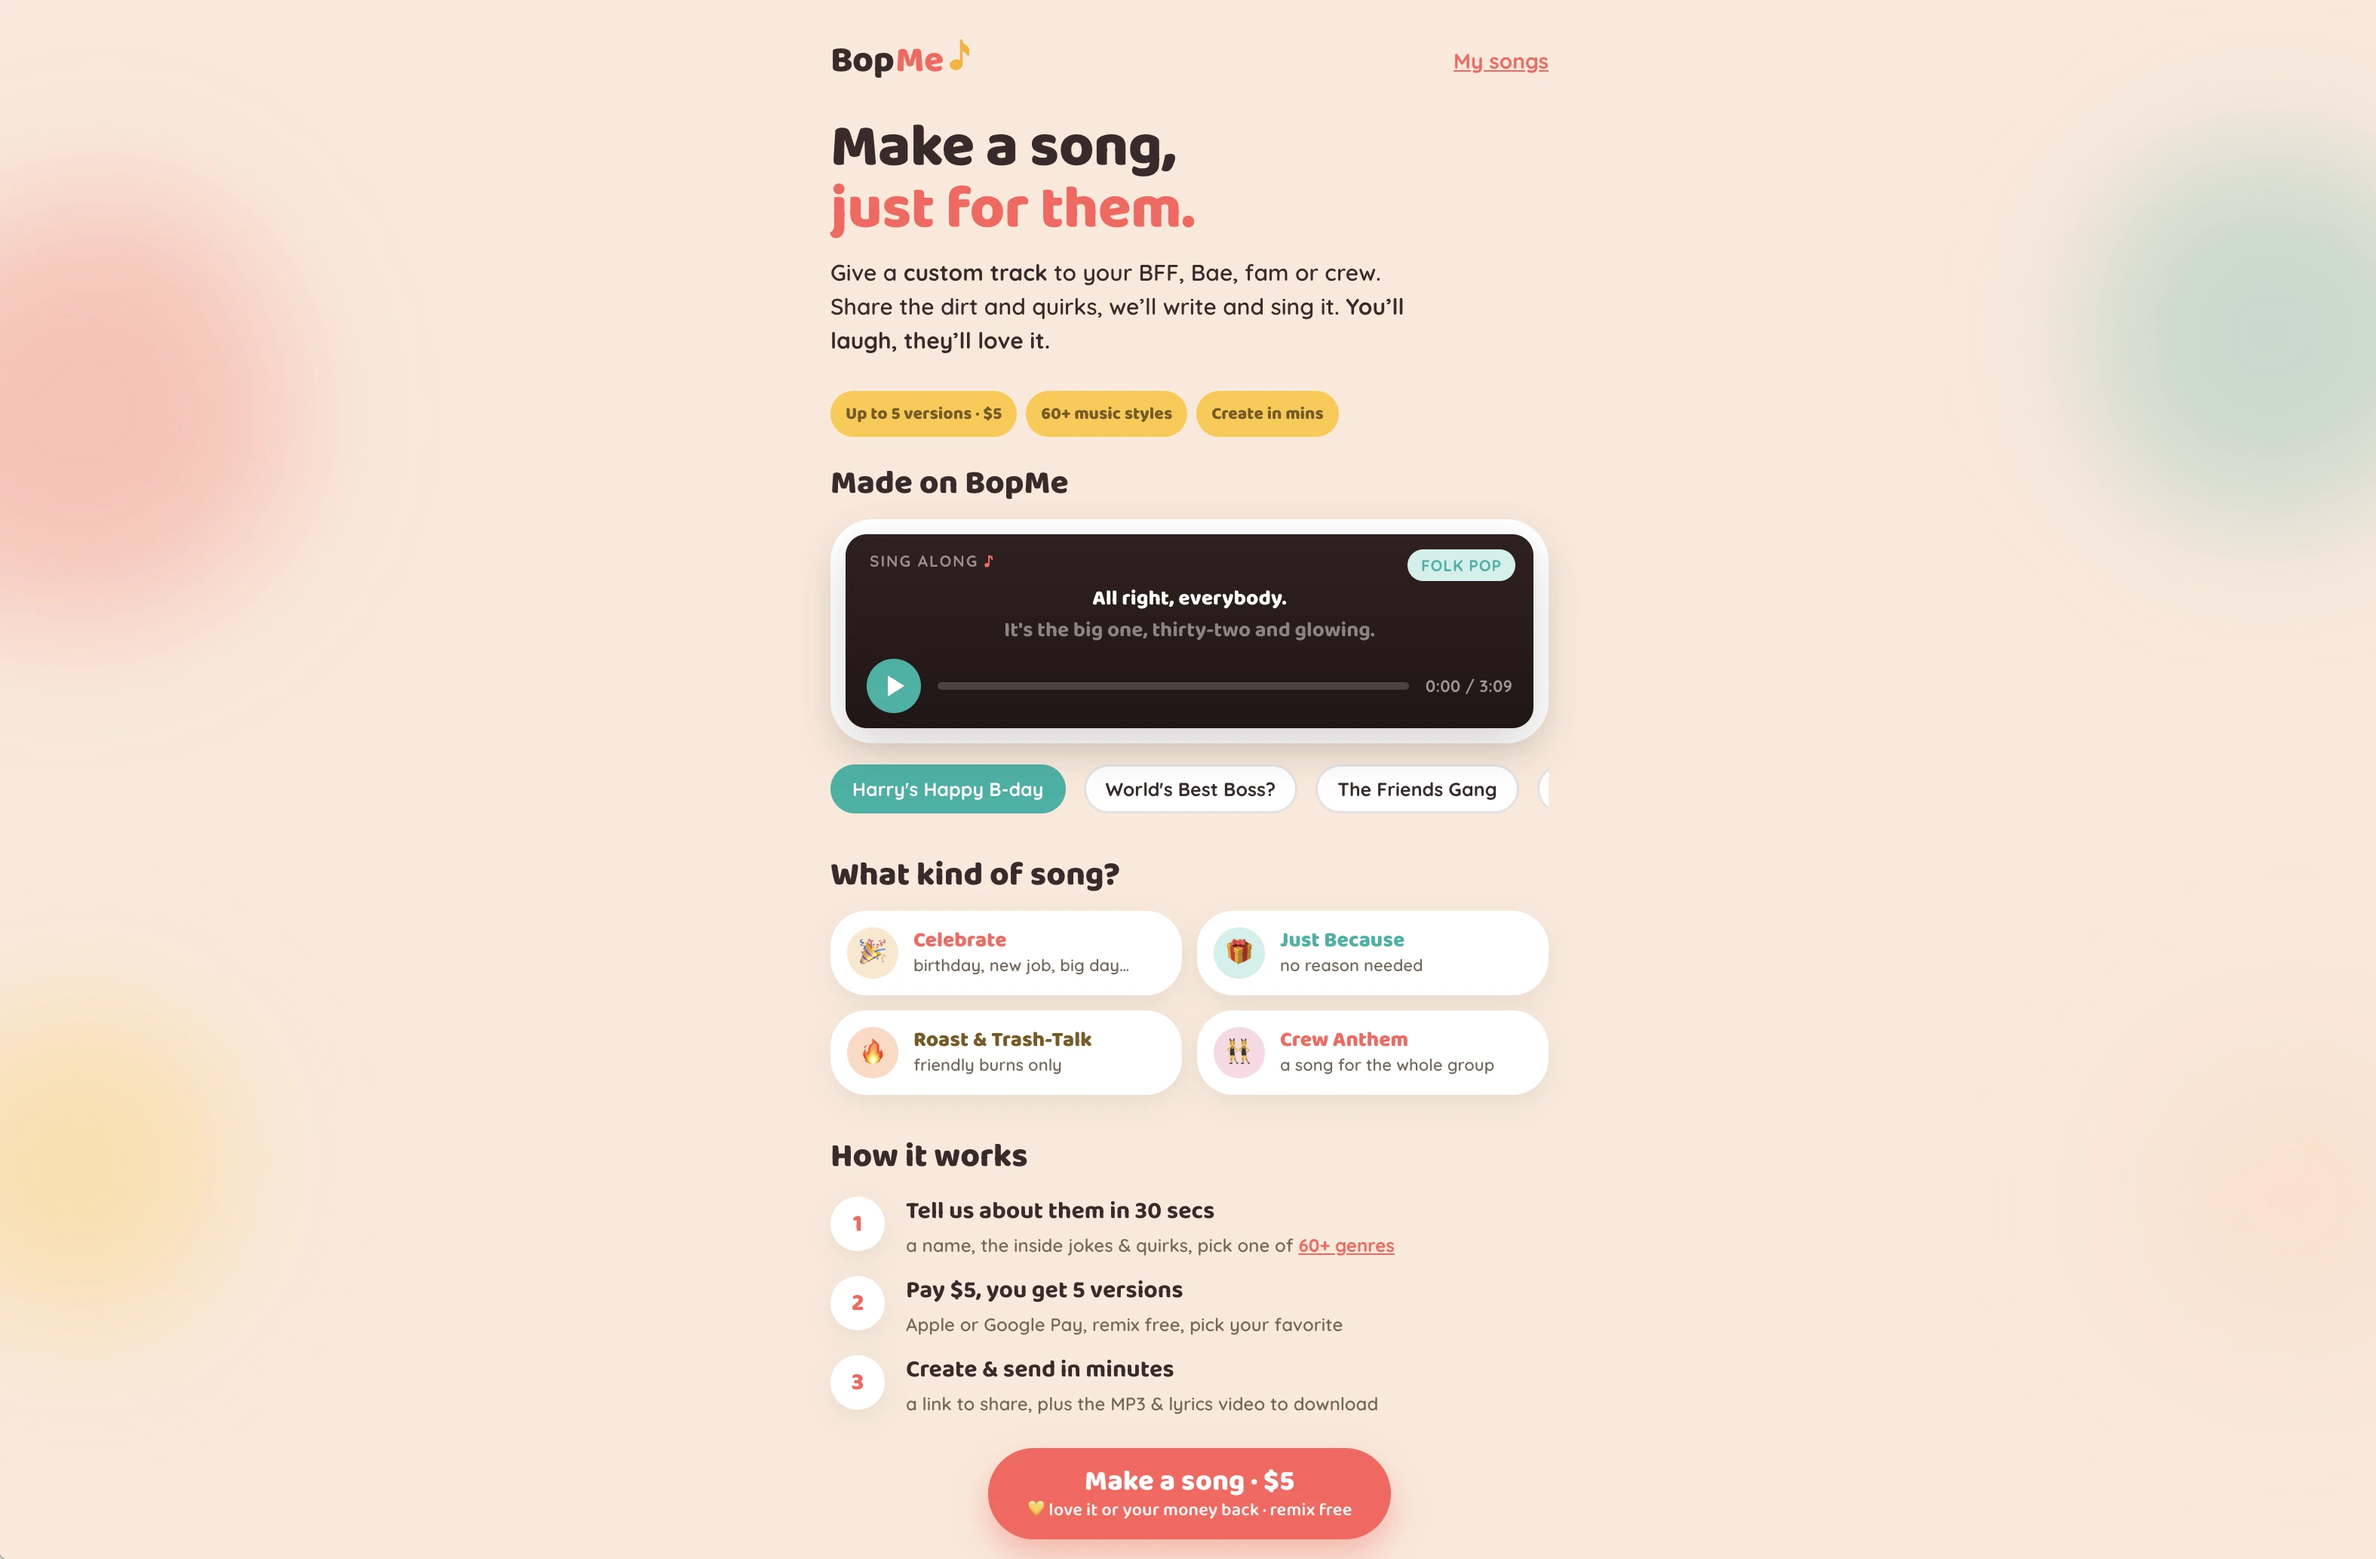
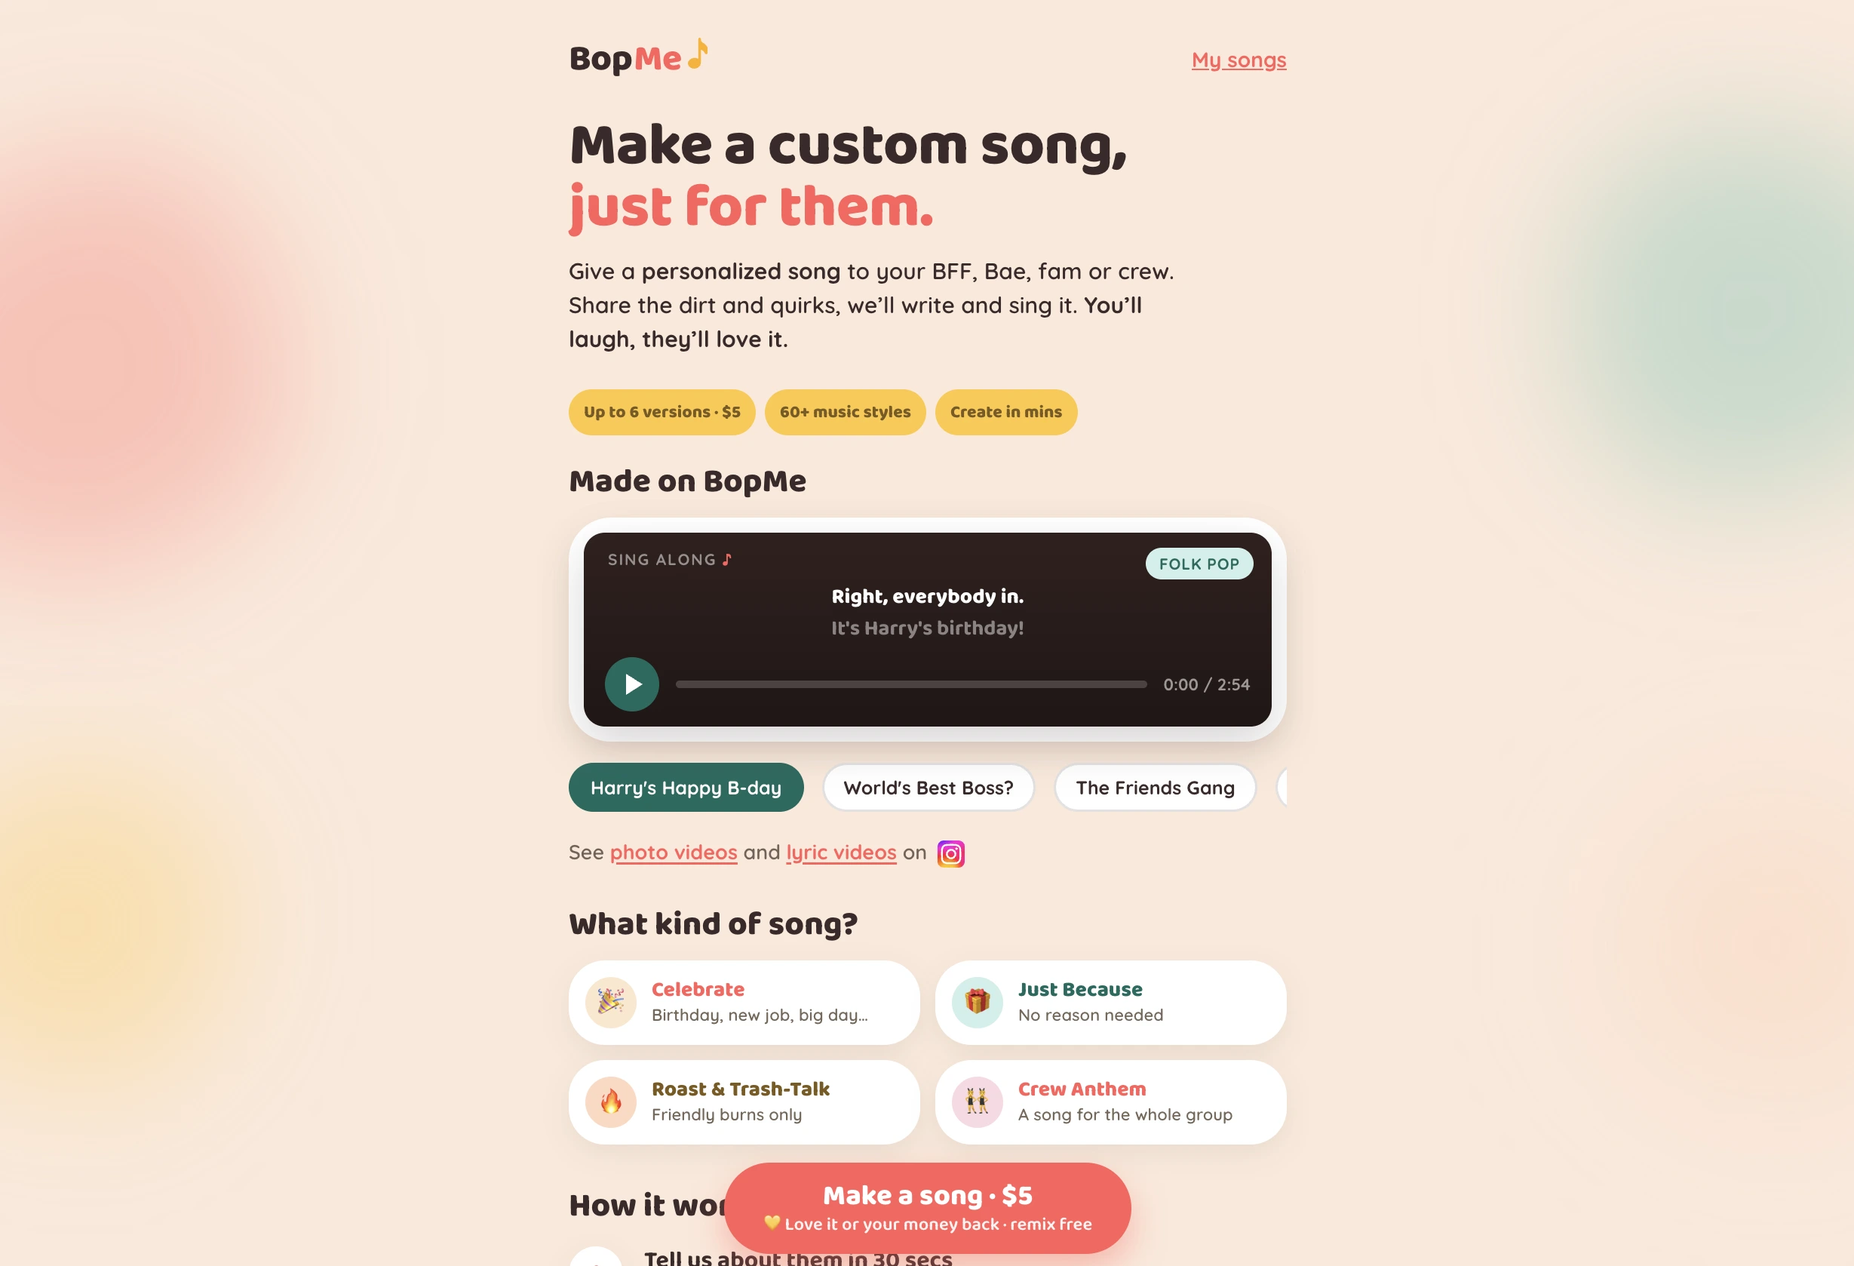
Update BopMe project card: new image, iOS app, revised copy
- Replace the main image with the new BopMe homepage capture, converted to
  WebP at native resolution (2458x1678, q92, 200K)
- Add the App Store badge in the lower right, reusing DashDashBoom's markup
  verbatim so formatting and size match exactly
- Copy: new description, and Platforms now leads with the shipped iOS app

Changed region(s): [[0.3092, 0.031, 0.7111, 1.0], [0.6184, 0.031, 0.6802, 0.062]]

diff --git a/index.html b/index.html
@@ -192,9 +192,14 @@
                 </a>
               </div>
               <p class="text-gray-500 text-sm leading-relaxed">
-                Want to make your friends laugh? Create a studio quality song with personalized lyrics in minutes. Just give us the dirt, pick a genre, and energy level. Anything goes...pop, disco, R&B, yacht rock, country, acoustic & more.
+                Want to make friends laugh? Create a studio quality song &amp; video with personalized lyrics in minutes. Give us the dirt, pick a genre, and energy level. Over 60 music genres to choose from.
               </p>
-              <p class="text-sm text-gray-400 mt-6 font-display"><span class="font-semibold text-gray-500">Platforms:</span> Web App, iOS and Android Apps coming soon</p>
+              <div class="flex items-start justify-between mt-6 gap-4">
+                <p class="text-sm text-gray-400 font-display"><span class="font-semibold text-gray-500">Platforms:</span> iOS App, Web App, Android App (coming soon)</p>
+                <a href="https://apps.apple.com/us/app/bopme-funny-custom-song-gifts/id6791397115" target="_blank" rel="noopener" class="inline-block shrink-0">
+                  <img src="images/app-store-badge.webp" alt="Download BopMe on the App Store" class="h-8">
+                </a>
+              </div>
             </div>
           </div>
 
